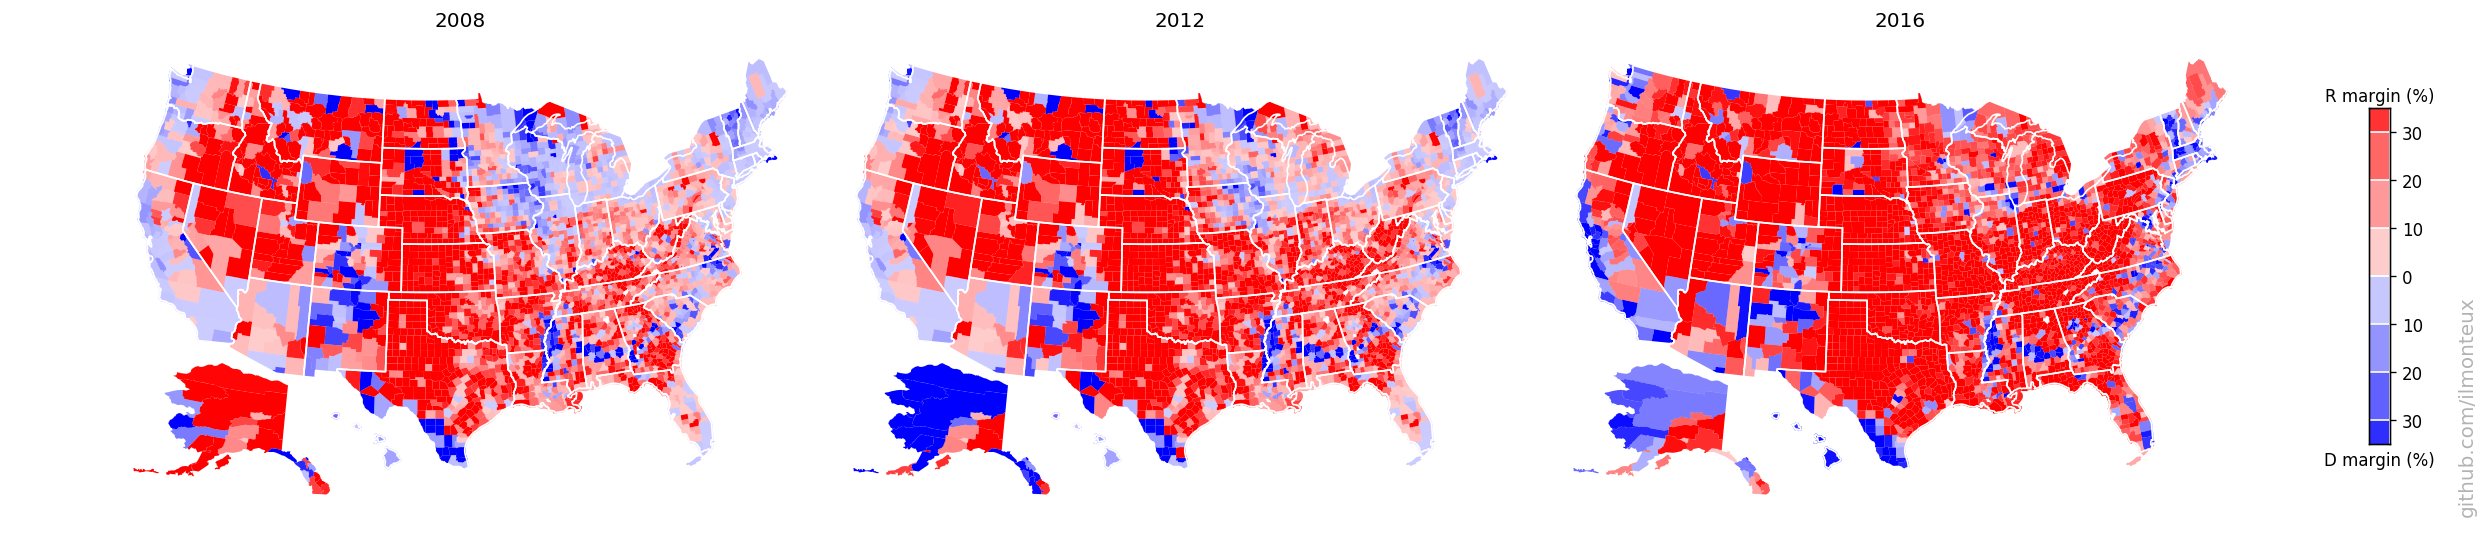
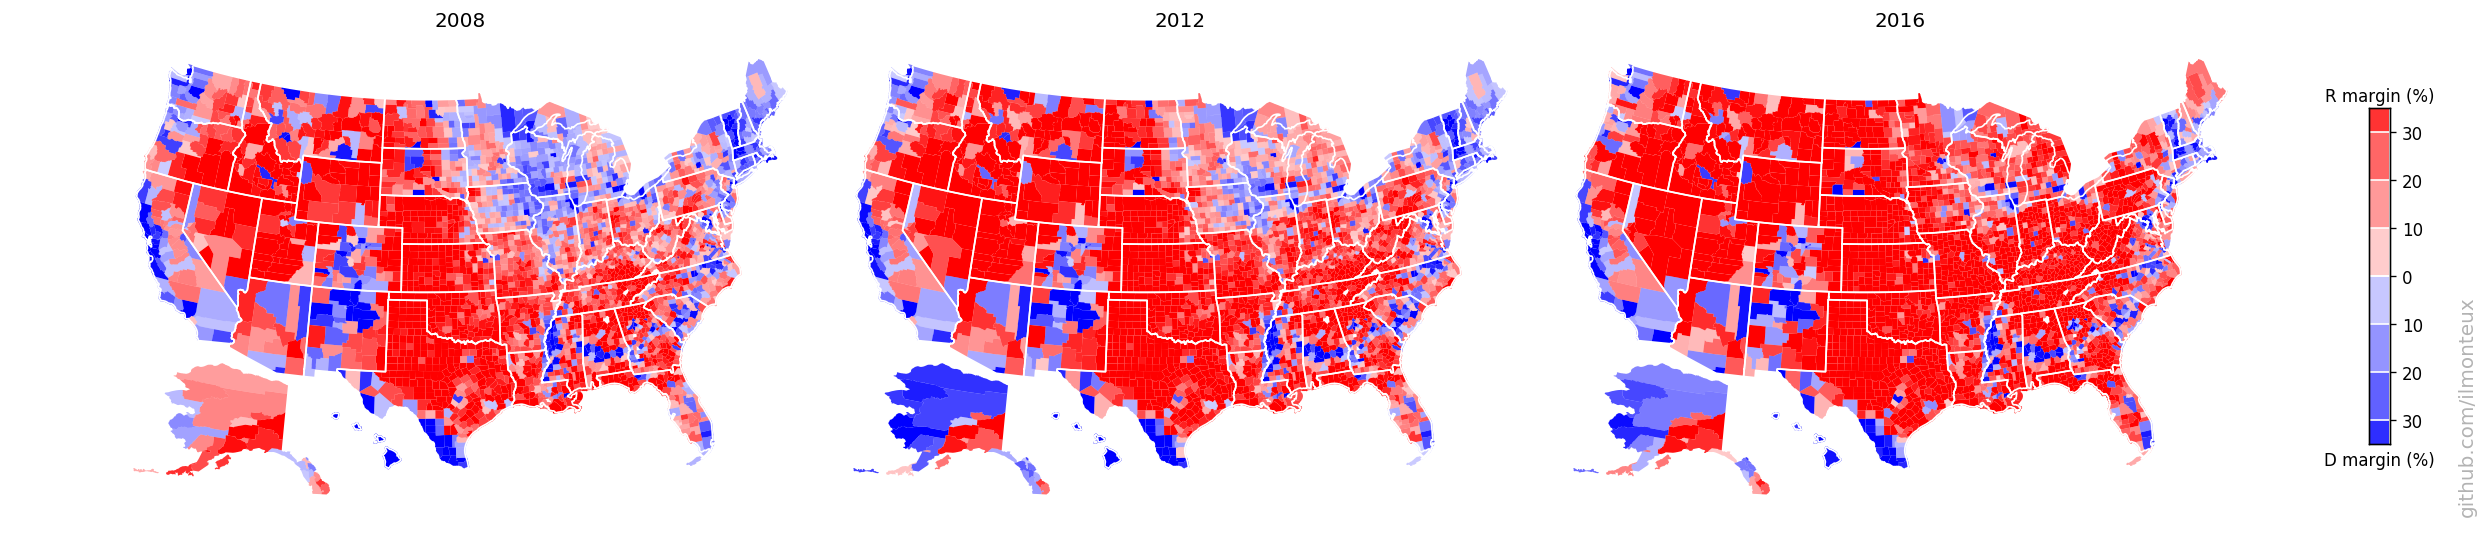
fixed colors in 08,12 county maps, added shift map

diff --git a/US_elections/short_summary.md b/US_elections/short_summary.md
@@ -94,6 +94,11 @@ These maps can be compared to previous elections, to understand the difference b
 
 Even though Hillary Clinton won the popular vote, one easily sees that a bunch of states from Pennsylvania to the Midwest were flipped (the so-called Blue Wall).
 
+Finally we can look at the percent shift in votes from  the previous elections (note the smaller range in the color map):    
+![2008-2012-2016 US state map vote shift](figs/election_county_map081216_shift.png)
+
+Here a couple of states, Alaska and Utah look weird: those are artifacts of Palin being on the ticket in 2008 (moving up the baseline when comparing to 2012) and of McMullin running as independent in 2016 (taking away R votes in Utah).
+
 # Cartograms: reflecting where people actually live
 Looking at the county-level figures, one would wonder how  it was ever possible for Democrats to win any election, given that most of the US looks very red/Republican. The simple answer is that very few people live in those large swaths of red.  For example, see the distribution of vote margins by county, vs by vote total.
 
